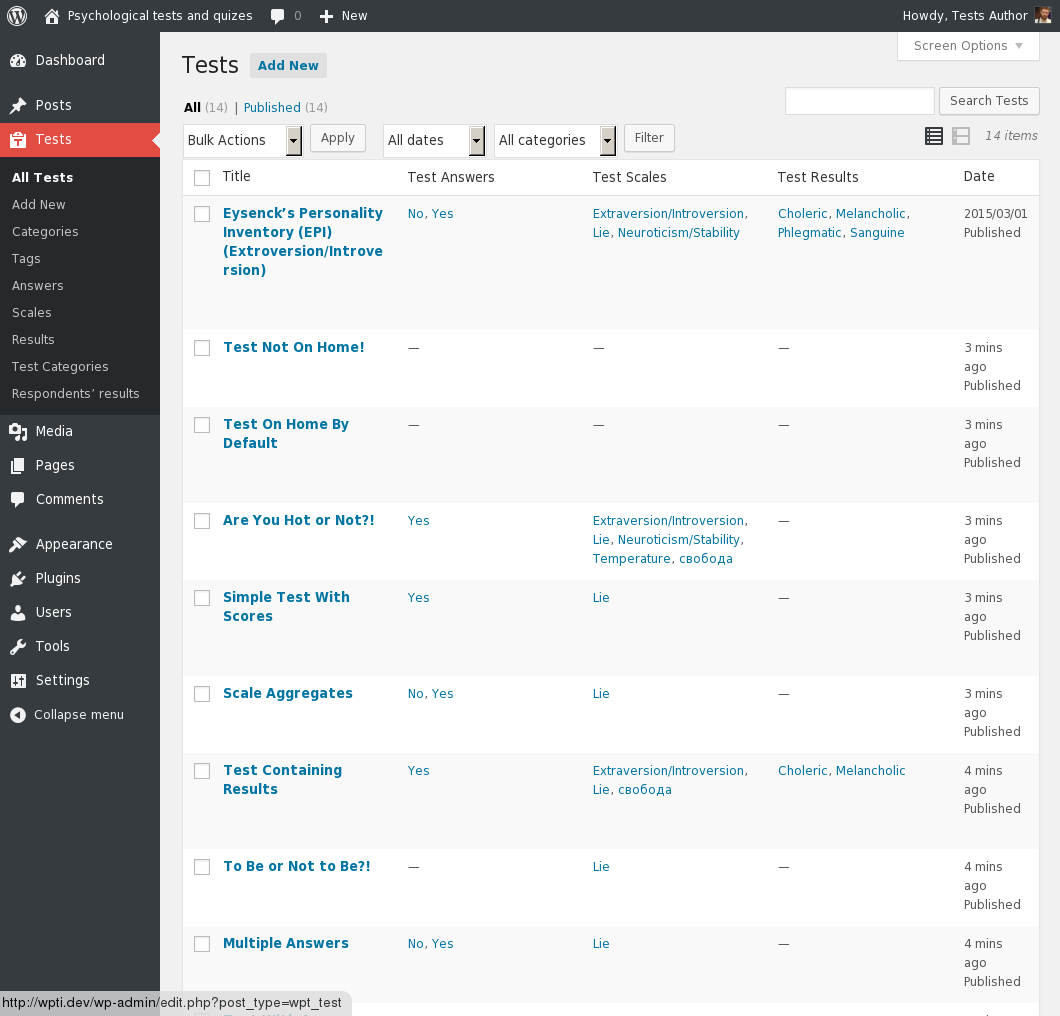
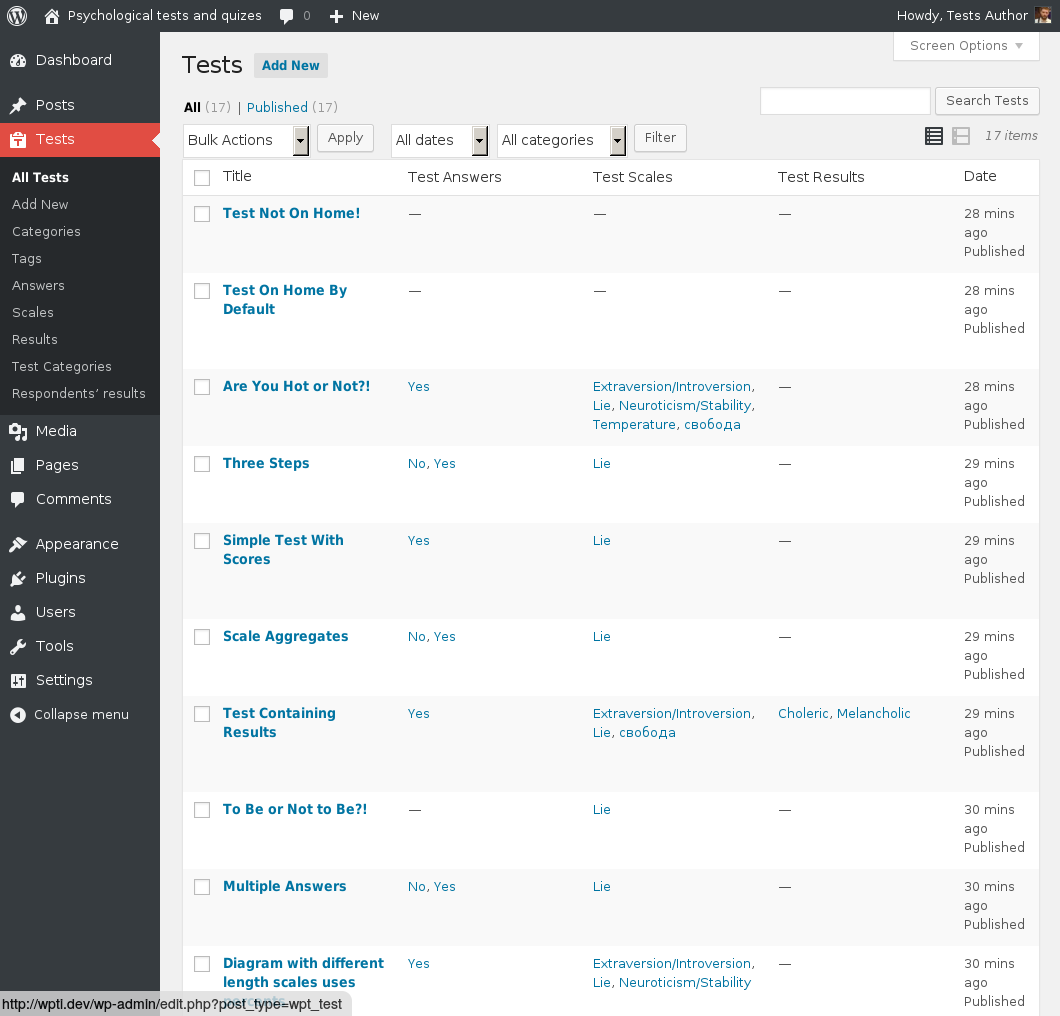
Add new screenshots

diff --git a/tools/screenshots/create-screenshots.js b/tools/screenshots/create-screenshots.js
@@ -228,6 +228,31 @@ var screenshots = [
                 this.clickLabel('No',  '*[@id="wpt-test-form"]/*[2]/*//label')
             })
         }
+    }, {
+        title   : 'One question per page also allowed. On first page we see test description, "Next" button and pages counter',
+        actions : function () {
+            casper.thenOpen('http://wpti.dev/test/three-steps/').waitForUrl(/three/, function() {
+                this.clickLabel('Yes', '*[@id="wpt-test-form"]/*//label')
+            })
+        }
+    }, {
+        title   : 'On second page description not shown',
+        actions : function () {
+            casper.then(function() {
+                this.fill('form#wpt-test-form', {}, true)
+            }).waitForUrl(/three-steps/, function() {
+                this.clickLabel('No', '*[@id="wpt-test-form"]/*//label')
+            })
+        }
+    }, {
+        title   : 'On last page counter not shown and button changes back to "Get Test Results"',
+        actions : function () {
+            casper.then(function() {
+                this.fill('form#wpt-test-form', {}, true)
+            }).waitForUrl(/three-steps/, function() {
+                this.clickLabel('Yes', '*[@id="wpt-test-form"]/*//label')
+            })
+        }
     }
 ];
 

diff --git a/README.md b/README.md
@@ -90,3 +90,6 @@ PS: **If something broken or doesn't work**, pls create new topic in ["Support" 
 17. Test results with scales chart. Hovered scale shows it`s value and title in dynamic tag
 18. In case when scales has different length (possible max total) they are shown as percents
 19. Multiple answers per question are also possible
+20. One question per page also allowed. On first page we see test description, "Next" button and pages counter
+21. On second page description not shown
+22. On last page counter not shown and button changes back to "Get Test Results"
